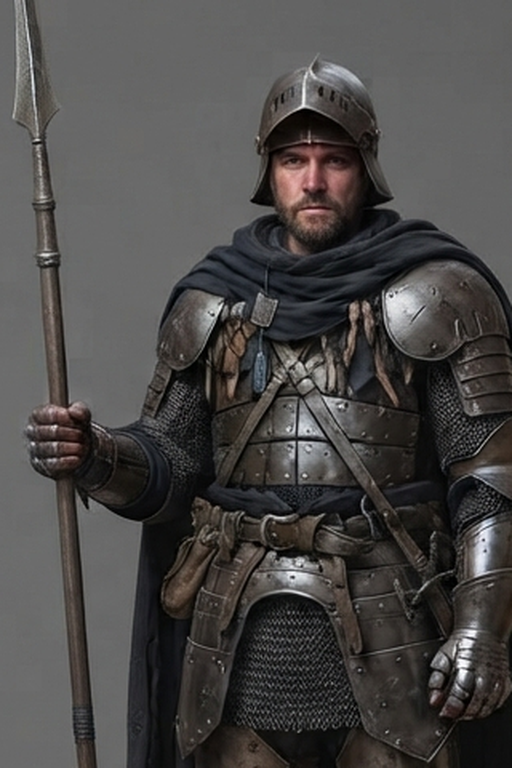
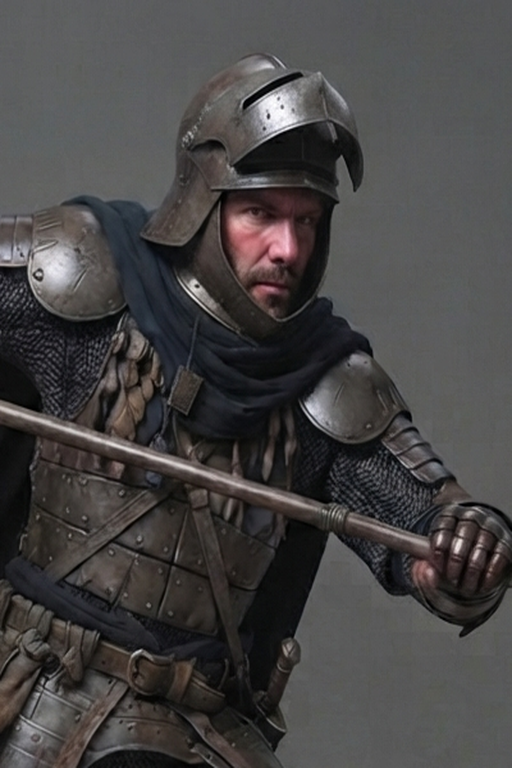
Give Malrec and Aldric their own battlefield sprites
They were showing as the generic cultist/pikeman art on the map (Conjurer
and Lancer's classes were pointed at the shared sorcerer/pikeman sprite
folders, used by any other enemy on those classes). Cut out both
characters' standing and attack poses into transparent 128x128 tokens,
added "malrec"/"aldric" as real sprite ids alongside the four starters
(loaded the same way: 4 idle frames + 4 attack frames), and repointed
CLASSES.conjurer/lancer.sprite at them.

Also swapped their status-panel portraits to crops of the attack poses
per feedback, instead of the standing group shot.

Claude-Session: https://claude.ai/code/session_01MmBre6JRzENvpqiZD8PvJr

diff --git a/src/game/assets.ts b/src/game/assets.ts
@@ -23,7 +23,7 @@ export const TILE_VARIANT_COUNT: Record<TerrainId, number> = {
   void: 1,
 };
 const TILES = Object.keys(TILE_VARIANT_COUNT) as TerrainId[];
-const SPRITES: SpriteId[] = ["kael", "nira", "voss", "salazar", "soldier", "brigand", "captain", "sorcerer", "horror", "pikeman", "wardog", "troll"];
+const SPRITES: SpriteId[] = ["kael", "nira", "voss", "salazar", "malrec", "aldric", "soldier", "brigand", "captain", "sorcerer", "horror", "pikeman", "wardog", "troll"];
 
 function loadImage(src: string): Promise<HTMLImageElement> {
   return new Promise((resolve, reject) => {
@@ -68,7 +68,7 @@ export async function loadGameArt(): Promise<GameArt> {
     }),
   );
   await Promise.all(
-    (["kael", "nira", "voss", "salazar"] as SpriteId[]).map(async (id) => {
+    (["kael", "nira", "voss", "salazar", "malrec", "aldric"] as SpriteId[]).map(async (id) => {
       const n = id === "kael" ? 12 : 4;
       attacks[id] = await Promise.all(Array.from({ length: n }, (_, i) => loadImage(`/game/sprites/${id}/atk-${i + 1}.png${id === "kael" ? "?v=2" : ""}`)));
     }),

diff --git a/src/game/types.ts b/src/game/types.ts
@@ -60,7 +60,7 @@ export type ClassId =
   | "ranger"
   | "sentinel"
   | "templar";
-export type SpriteId = "kael" | "nira" | "voss" | "salazar" | "soldier" | "brigand" | "captain" | "sorcerer" | "horror" | "pikeman" | "wardog" | "troll";
+export type SpriteId = "kael" | "nira" | "voss" | "salazar" | "malrec" | "aldric" | "soldier" | "brigand" | "captain" | "sorcerer" | "horror" | "pikeman" | "wardog" | "troll";
 export type HealId = "cureMinor" | "cureWounds";
 export type SpellKind = "fireball" | HealId | "longShot" | "piercing" | "lightning" | "magicMissile" | "causticVenom" | "doubleStrike" | "cleave" | "cureDisease";
 export type ScreenId = "boot" | "title" | "campaign" | "worldMap" | "briefing" | "cutscene" | "epilogue" | "battle" | "victory" | "defeat" | "inn" | "testMenu" | "mapEditor";

diff --git a/src/game/GameApp.tsx b/src/game/GameApp.tsx
@@ -112,10 +112,8 @@ const HERO_PORTRAIT: Partial<Record<string, string>> = {
   nira: "/game/portraits/nira.png",
   voss: "/game/portraits/voss.png",
   salazar: "/game/portraits/salazar.png",
-  // Keyed by class sprite (see CLASSES' own sprite field), same as the four starters above —
-  // Malrec (Conjurador) and Aldric (Lanceiro) are the only named units on these classes so far.
-  sorcerer: "/game/portraits/malrec.png",
-  pikeman: "/game/portraits/aldric.png",
+  malrec: "/game/portraits/malrec.png",
+  aldric: "/game/portraits/aldric.png",
 };
 
 // Only the small pouch exists as a carried-bag icon so far — swap this to read the party's

diff --git a/src/game/data.ts b/src/game/data.ts
@@ -327,7 +327,7 @@ export const CLASSES: Record<ClassId, ClassDef> = {
     mov: 5,
     minRange: 1,
     maxRange: 2,
-    sprite: "pikeman",
+    sprite: "aldric",
     size: 1,
     init: 4,
   },
@@ -343,7 +343,7 @@ export const CLASSES: Record<ClassId, ClassDef> = {
     mov: 5,
     minRange: 1,
     maxRange: 2,
-    sprite: "sorcerer",
+    sprite: "malrec",
     size: 1,
     init: 6,
   },
